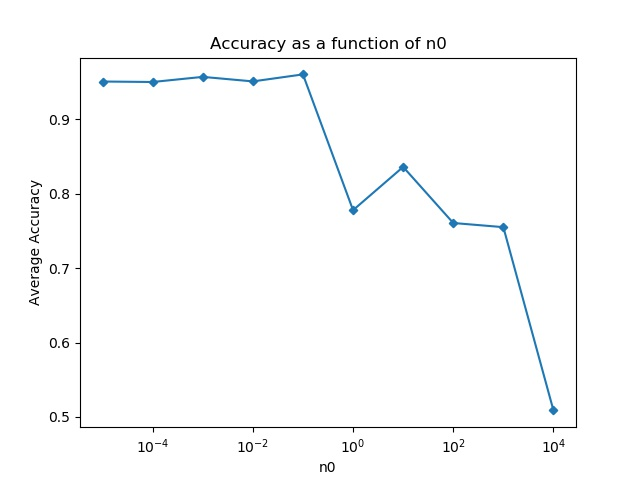
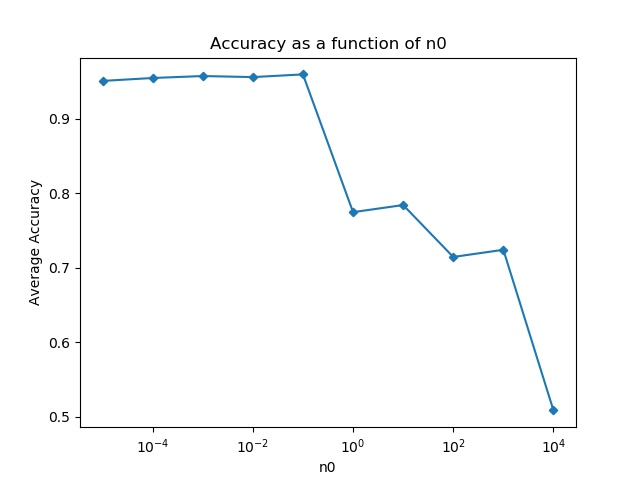
backprop completed, changes in hw4

diff --git a/backprop/network.py b/backprop/network.py
@@ -5,6 +5,7 @@ network.py
 import random
 import numpy as np
 import math
+import helper
 
 class Network(object):
 
@@ -48,7 +49,7 @@ class Network(object):
         """Update the network's weights and biases by applying
         stochastic gradient descent using backpropagation to a single mini batch.
         The ``mini_batch`` is a list of tuples ``(x, y)``."""
-#        nabla_b = [np.zeros(b.shape) for b in self.biases]
+        nabla_b = [np.zeros(b.shape) for b in self.biases]
         nabla_w = [np.zeros(w.shape) for w in self.weights]
         for x, y in mini_batch:
             delta_nabla_b, delta_nabla_w = self.backprop(x, y)
@@ -66,11 +67,11 @@ class Network(object):
         #feed forward
         pre_activations = []  # z 1-L
         activations = []  # a 0 - L
-        # pre_activations.append(x)
+        #pre_activations.append(x)
         activations.append(x)
         layer = 0
         for w, b in zip(self.weights, self.biases):
-            x = w.dot(x) + b
+            x = w.dot(x) + b # linear
             pre_activations.append(x)
             if not (layer == len(self.weights) - 1):
                 x = sigmoid(x)
@@ -91,10 +92,10 @@ class Network(object):
         
         dw = []
         db = deltas[::-1]
-        
+
         for i, delta in enumerate(deltas[::-1]):
             active = activations[i]
-            cdw = delta.transpose().dot(active)  # TODO MAYBE BUG
+            cdw = delta.dot(active.transpose())
             dw.append(cdw)
             
         return db, dw

diff --git a/backprop/data.py b/backprop/data.py
@@ -4,6 +4,7 @@ data.py
 
 import pickle
 import gzip
+import os
 
 import numpy as np
 
@@ -23,7 +24,8 @@ def load(train_size, test_size):
 
     Hence, we're using different label formats for
     the training data and the test data.  """
-    f = gzip.open('./mnist.pkl.gz', 'rb')
+    dir = '/Users/itaymegera/workspace/hw4ml/backprop/'
+    f = gzip.open(dir + './mnist.pkl.gz', 'rb')
     #train_from_file, validation_from_file, test_from_file = pickle.load(f, encoding='iso-8859-1')
     train_from_file, validation_from_file, test_from_file = pickle.load(f)
     f.close()

diff --git a/hw4.py b/hw4.py
@@ -123,8 +123,8 @@ plt.show()
 
 #c
 
-c = 1
-lr = 1
+c = best_c
+lr = best_lr
 T = 20000
 w = sgd(train_data, train_labels, c, lr, T)
 plt.imshow(w.reshape(28, 28))

diff --git a/backprop/helper.py b/backprop/helper.py
@@ -1,0 +1,7 @@
+import numpy as np
+
+def pr(arr):
+    ans = ""
+    for i in range(len(arr)):
+        ans += str(arr[i].shape) + " , "
+    return ans
